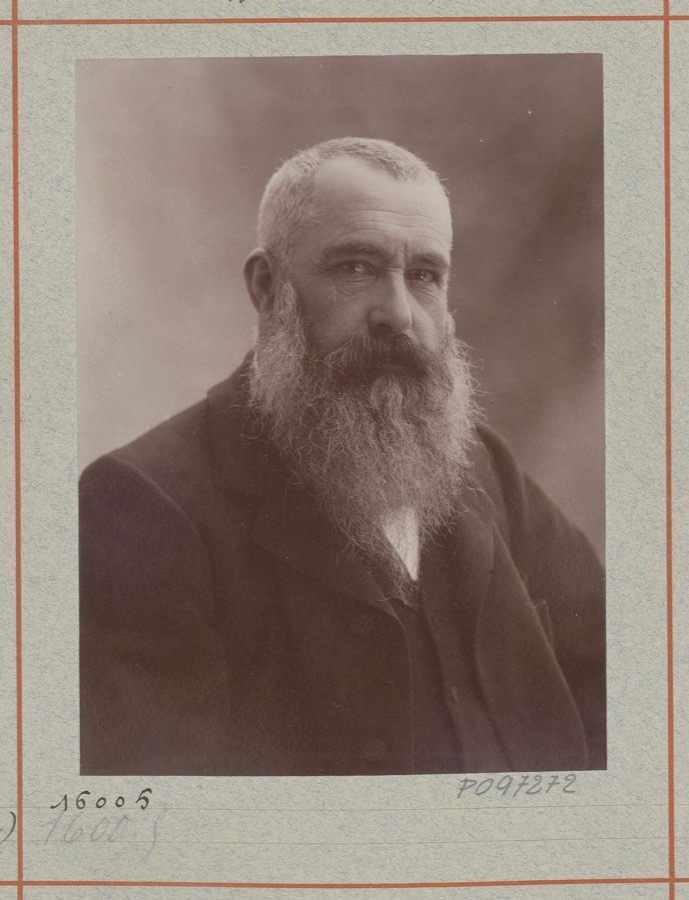
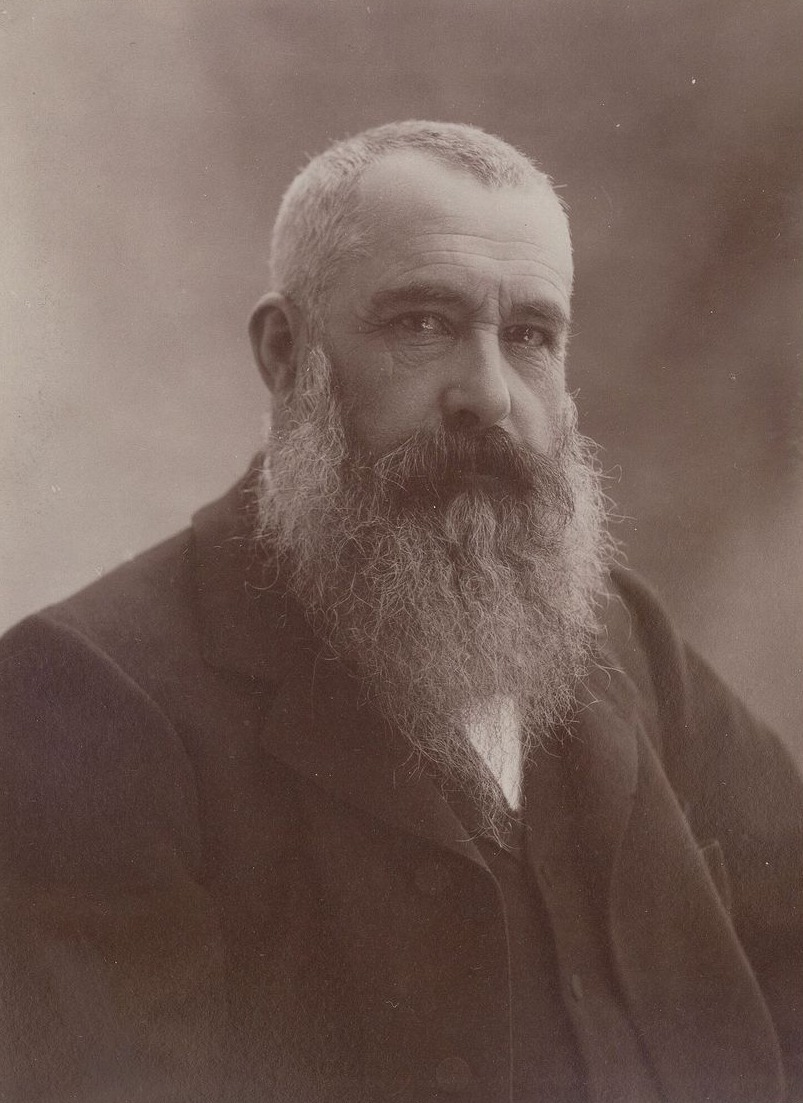
액자 화면: 모네 초상을 사진 부분만 자름(소장 대지 · 빨간 줄 제거), 안내 글자 · 연결 표시 숨김

diff --git a/design/experience-v3/frame.html b/design/experience-v3/frame.html
@@ -19,7 +19,7 @@ html,body{height:100%;background:#16110c;overflow:hidden;cursor:none}
 .hint{position:fixed;left:0;right:0;bottom:2vh;text-align:center;font-family:Freesentation,sans-serif;font-size:13px;color:rgba(242,237,226,.45);transition:opacity .6s}
 .hint.off{opacity:0}
 .dot{position:fixed;right:10px;bottom:10px;width:8px;height:8px;border-radius:50%;background:#C8553D}
-.dot.on{background:#3E8A6B}
+.dot.on{background:#3E8A6B;opacity:0;transition:opacity .6s}   /* 연결되면 숨긴다 — 빨간 점은 끊겼을 때만 */
 </style>
 </head>
 <body>
@@ -28,6 +28,7 @@ html,body{height:100%;background:#16110c;overflow:hidden;cursor:none}
 <i class="dot" id="dot" title="연결 상태"></i>
 <script type="module">
 import { joinRoom } from './link.js';
+setTimeout(() => document.getElementById('hint').classList.add('off'), 6000);   // 설치할 때만 보이면 된다
 const IDLE = 'img/nadar_monet.jpg';          // 아틀리에 나다르가 찍은 모네 초상(프랑스 국립도서관) — 평소의 액자
 const HOLD = 60000;                          // 관람객 사진은 1분 걸어 두고 평소로
 const imgs = [document.getElementById('a'), document.getElementById('b')];
